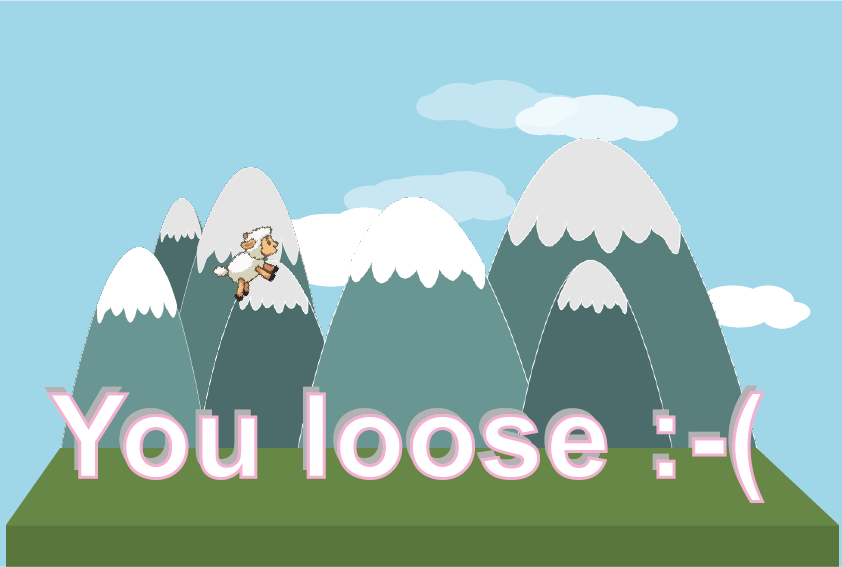
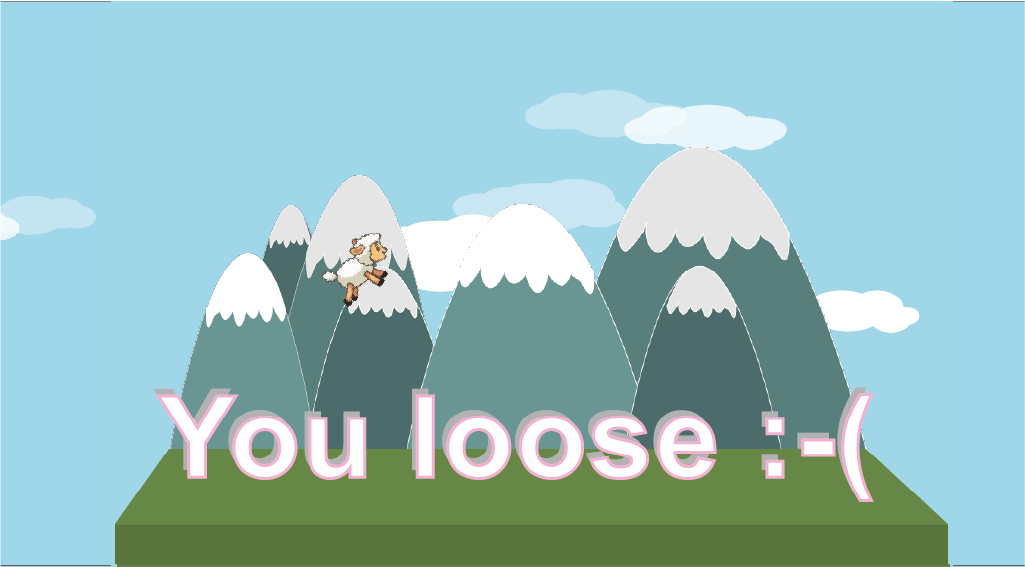
css and bug fixes (preventing player from flying, canvas display when player lost or won), counter creation & start button dom liason

diff --git a/style.css b/style.css
@@ -12,64 +12,88 @@ body {
 
     background-image: url('./assets/vecteezy_flat-design-mountains-landscape-background-illustration_14763069.jpg');
     background-size: cover;
+    margin-left: 20px;
+    margin-right: 20px;
 }
 
 .title {
     margin-top: 2rem;
+    margin-bottom: 3rem;
     color: #749470;
-    font-size: 2rem;
+    font-size: 1.7rem;
     display: flex;
     flex-direction: column;
     align-items: center;
+    text-align: center;
+    gap: 10px;
 }
 
 .title>img {
-    width: 1000px;
+    width: 700px;
     margin-bottom: 1rem;
 }
 
 .title>p {
-    margin-top: 2.5rem;
-    color: black;
+    margin-top: 1rem;
+    color: #364534;
     font-size: 1.3rem;
     font-weight: 800;
 }
 
+.rules>h3 {
+    font-size: 2rem;
+}
 
 .rules {
     color: white;
     font-weight: 600;
-    width: 30rem;
-    background-color: #64bce9;
+    background-color: #4f96bad9;
     display: flex;
     flex-direction: column;
-    flex-wrap: wrap;
-    padding: 2rem;
-    border-radius: 2%;
+    align-items: center;
+    gap: 40px;
+    padding: 4rem;
+    border-radius: 12px;
 }
 
-
+div.canvas {
+    margin-top: 0;
+}
 
 .canvas {
     display: flex;
     flex-direction: row;
     justify-content: flex-end;
-    align-items: center;
+    align-items: flex-start;
     height: 100vh;
-    margin: 1rem 3rem 0 3rem
+    gap: 20px;
 }
 
 canvas {
-    margin-left: 2rem;
     border-radius: 3%;
 }
 
 
-#start-btn {
+
+.counter {
     font-size: 2rem;
-    color: white;
+    color: #4f664c;
     font-weight: 800;
-    background-color: #64bce9;
     border: none;
-    padding: 2rem 6rem 2rem 6rem
+    padding: 2rem 3rem 2rem 3rem;
+    position: absolute
+}
+
+.counter h2 {
+    color: #364534;
+}
+
+#start-btn {
+    color: #749470;
+    font-weight: 800;
+    font-size: 1.7rem;
+    border: none;
+    padding: 2rem 2.5rem;
+    border-radius: 8px;
+    max-width: 200px;
 }

diff --git a/index.js b/index.js
@@ -26,6 +26,7 @@ let ennemies = [];
 let movingPlatforms = [];
 let platforms = [];
 let decorativeObjects = [];
+let gameHasStarted = false;
 
 //Object keys pressed property returns true or false wether a key is pressed or not
 let keys = { right: { pressed: false }, left: { pressed: false } };
@@ -252,7 +253,6 @@ function animation() {
   });
   //Player position update
   player.update();
-  console.log(player.health);
 
   //moves the player left and right and blocks the player before 100 and after 500
   if (keys.right.pressed && player.position.x < 400) {
@@ -318,6 +318,13 @@ function animation() {
     });
   });
 
+  const lives = document.querySelector('.counter #lives');
+
+  lives.innerHTML = player.health;
+
+  const score = document.querySelector('.counter #score');
+  score.innerHTML = player.points;
+
   //Initialization of win scenario
   if (scrollEnd > 9230) {
     context.clearRect(0, 0, 1024, 566);
@@ -330,8 +337,14 @@ function animation() {
     context.drawImage(loosing, 0, 0);
   }
 }
-createGame();
-animation();
+
+const startButton = document.querySelector('#start-btn');
+startButton.addEventListener('click', (event) => {
+  gameHasStarted = true;
+  createGame();
+  animation();
+});
+
 //************************************************************************
 
 // Controls
@@ -346,7 +359,7 @@ window.addEventListener('keydown', (event) => {
       keys.right.pressed = true;
       break;
     case 'ArrowUp':
-      player.velocity.y -= 25;
+      player.velocity.y -= 15;
       break;
     case 'ArrowDown':
       break;

diff --git a/index.html b/index.html
@@ -18,9 +18,9 @@
       </p>
     </div>
     <div class="canvas">
-      <div>
-        <h3 class="rules">Rules</h3>
-        <p class="rules">
+      <div class="rules">
+        <h3>Rules</h3>
+        <p>
           Sheepy is a lucky sheep, he has 3 lives! Your task is to get him home
           safe by using your keyboard. First of all, beware of wolves! They take
           one life out of Sheepy everytime they touch him. But Sheepy is no
@@ -29,12 +29,15 @@
           to overcome perillous pits. Beware of those, because they will take
           Shippy away forever.
         </p>
+        <button id="start-btn">Start Game</button>
       </div>
       <div>
         <canvas> </canvas>
       </div>
-      <div>
-        <button id="start-btn">Start Game</button>
+
+      <div class="counter">
+        <p>lives: <span id="lives">0</span></p>
+        <p>Score: <span id="score">0</span></p>
       </div>
     </div>
   </body>

diff --git a/Classes/Player.js b/Classes/Player.js
@@ -38,5 +38,9 @@ export default class Player {
     // adds gravity and stops the element from going outside of the canvas
     if (this.position.y + this.height + this.velocity.y <= canvas.height)
       this.velocity.y += gravity;
+
+    if (this.position.y < 0) {
+      return (this.position.y *= -1);
+    }
   }
 }
